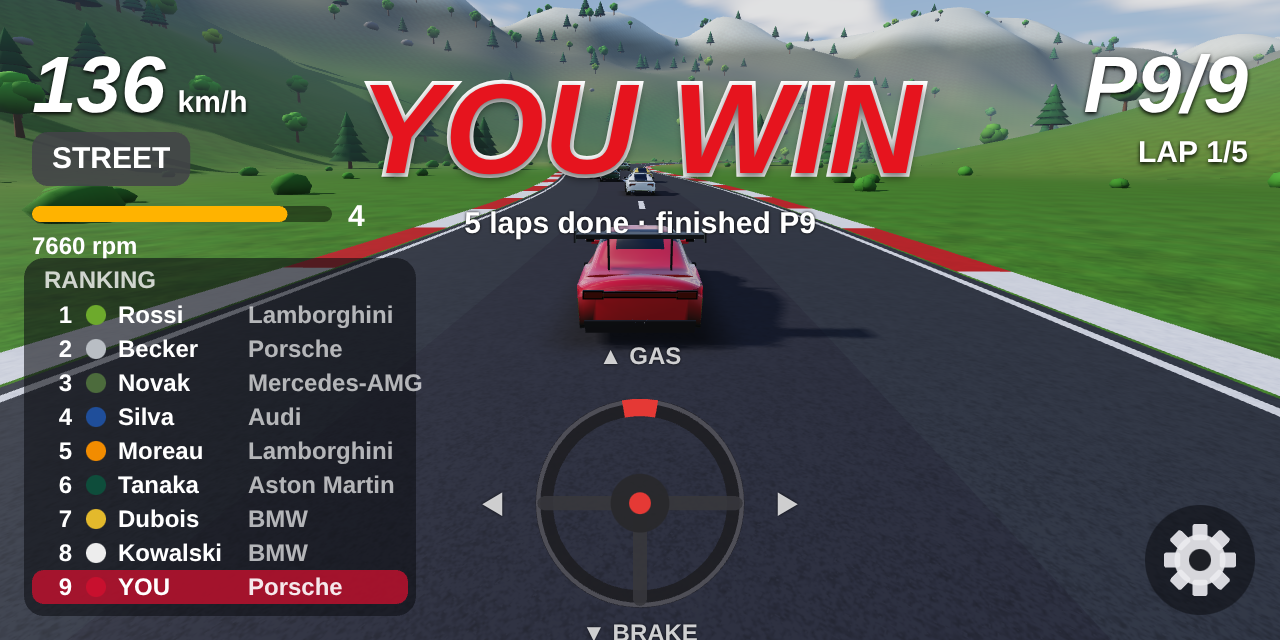
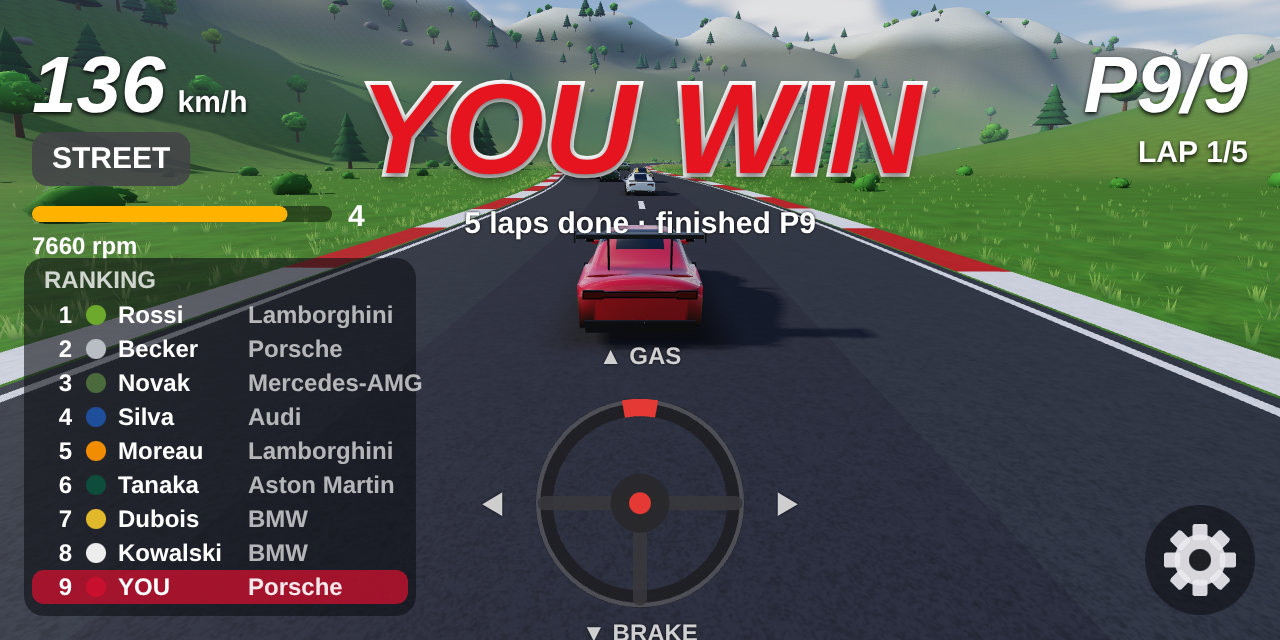
Grass tufts on the verges and leaves on the trees and bushes
About 30,000 tufts of grass blades along the track, densest by the curbs,
and leaf cards over the broadleaf crowns and bushes, in a double-sided
foliage material. Back faces keep their upward normals so both sides light
alike; foliage is left out of the shadow maps.

Claude-Session: https://claude.ai/code/session_01PALYvBmcq9tb4KfgW5X3kT

diff --git a/app/src/main/java/com/titovpower/racegame/SceneMeshes.kt b/app/src/main/java/com/titovpower/racegame/SceneMeshes.kt
@@ -1,6 +1,7 @@
 package com.titovpower.racegame
 
 import kotlin.math.PI
+import kotlin.math.abs
 import kotlin.math.cos
 import kotlin.math.sin
 import kotlin.random.Random
@@ -181,6 +182,99 @@ object SceneMeshes {
             Rgb.hex(0xECEFF1),
         )
         b.gloss = 0f
+        return b.toArray()
+    }
+
+    private val BLADE_BASE = Rgb.hex(0x44752C)
+    private val BLADE_TIP = Rgb.hex(0x8DB04A)
+    private val BLADE_DRY = Rgb.hex(0xB5AE62)
+
+    /**
+     * Grass tufts on the verges along the track (densest next to the curbs) and leaves on the
+     * broadleaf trees and bushes: thin double-sided cards. Normals point up or out of the crown,
+     * so they light like the ground and the foliage they sit on.
+     */
+    fun foliage(world: World): FloatArray {
+        val b = MeshBuilder(1 shl 22)
+        val track = world.track
+        val rnd = Random(11)
+        val minOffset = track.halfWidth + track.curbWidth + 0.4f
+        repeat(30000) {
+            val i = rnd.nextInt(track.samples)
+            val t = track.tangent(i)
+            // Biased towards the track: most tufts within ~15 m of the curb.
+            val off = minOffset + 40f * rnd.nextFloat().let { it * it * it }
+            val side = if (rnd.nextBoolean()) 1f else -1f
+            val along = rnd.nextFloat()
+            val j = (i + 1) % track.samples
+            val cx = track.xs[i] + (track.xs[j] - track.xs[i]) * along + t.z * off * side
+            val cz = track.zs[i] + (track.zs[j] - track.zs[i]) * along - t.x * off * side
+            val y = world.heightAt(cx, cz, off) - 0.02f
+            val h = 0.16f + rnd.nextFloat() * 0.26f
+            val dry = clamp(Noise.value(cx * 0.012f, cz * 0.012f) - 0.5f, 0f, 1f) * 1.4f
+            val tip = BLADE_TIP.mix(BLADE_DRY, dry).scale(0.85f + rnd.nextFloat() * 0.3f)
+            val base = BLADE_BASE.scale(0.8f + rnd.nextFloat() * 0.3f)
+            val up = V3(0f, 1f, 0f)
+            val blades = 4 + rnd.nextInt(3)
+            for (k in 0 until blades) {
+                val a = rnd.nextFloat() * 6.283f
+                val lean = 0.15f + rnd.nextFloat() * 0.35f
+                val dx = cos(a)
+                val dz = sin(a)
+                val px = cx + dx * 0.04f
+                val pz = cz + dz * 0.04f
+                val w = 0.022f + rnd.nextFloat() * 0.015f
+                // A blade: a thin triangle from a dark root to a bright tip, leaning outwards.
+                val b0 = V3(px - dz * w, y, pz + dx * w)
+                val b1 = V3(px + dz * w, y, pz - dx * w)
+                val tp = V3(px + dx * h * lean, y + h, pz + dz * h * lean)
+                b.vertex(b0, up, base); b.vertex(b1, up, base); b.vertex(tp, up, tip)
+            }
+        }
+        // Leaves: small pointed cards scattered over the broadleaf crowns and bushes.
+        fun leaves(center: V3, rx: Float, ry: Float, rz: Float, count: Int, size: Float, color: Rgb, seed: Int) {
+            val r = Random(seed)
+            repeat(count) {
+                // A random direction, favoring the upper half (the underside is in shade anyway).
+                val u = r.nextFloat() * 2f - 1f
+                val phi = r.nextFloat() * 6.283f
+                val sy = maxOf(u, -0.4f)
+                val ring = kotlin.math.sqrt(1f - sy * sy)
+                val n = V3(ring * cos(phi), sy, ring * sin(phi))
+                val p = V3(center.x + n.x * rx * 1.04f, center.y + n.y * ry * 1.04f, center.z + n.z * rz * 1.04f)
+                // Two in-plane axes, twisted randomly, tilted out of the crown surface.
+                val t0 = (if (abs(n.y) < 0.9f) V3(0f, 1f, 0f) else V3(1f, 0f, 0f)).cross(n).normalized()
+                val t1 = n.cross(t0)
+                val tw = r.nextFloat() * 6.283f
+                val ax = (t0 * cos(tw) + t1 * sin(tw) + n * 0.5f).normalized() * size
+                val ay = (t1 * cos(tw) - t0 * sin(tw)).normalized() * (size * 0.5f)
+                val c = color.scale(0.75f + r.nextFloat() * 0.5f)
+                val tipC = p + ax
+                val back = p - ax * 0.6f
+                // One triangle per leaf: from a broad base to the tip.
+                b.vertex(back + ay, n, c); b.vertex(back - ay, n, c); b.vertex(tipC, n, c)
+            }
+        }
+        for (tr in world.trees) {
+            if (tr.pine) continue
+            val s = tr.scale
+            val rot = (tr.x * 13.1f + tr.z * 7.7f) % 6.28f
+            val tint = 0.85f + Noise.value(tr.x * 0.3f, tr.z * 0.3f) * 0.3f
+            val autumn = Noise.value(tr.x * 0.05f, tr.z * 0.05f)
+            val leaf = LEAF.mix(LEAF_AUTUMN, clamp(autumn - 0.55f, 0f, 1f) * 2f).scale(tint * 1.08f)
+            val cy = tr.y + 4.4f * s
+            val seed = (tr.x * 3 + tr.z).toInt()
+            leaves(V3(tr.x, cy, tr.z), 2.3f * s, 1.9f * s, 2.3f * s, 70, 0.32f * s, leaf, seed)
+            for (k in 0 until 3) {
+                val a = rot + k * 2.1f
+                leaves(V3(tr.x + cos(a) * 1.4f * s, cy + (0.5f + 0.4f * (k % 2)) * s, tr.z + sin(a) * 1.4f * s), 1.45f * s, 1.25f * s, 1.45f * s, 30, 0.28f * s, leaf, seed + k * 7)
+            }
+            leaves(V3(tr.x, cy + 1.6f * s, tr.z), 1.5f * s, 1.2f * s, 1.5f * s, 30, 0.28f * s, leaf.scale(1.1f), seed + 3)
+        }
+        for (bush in world.bushes) {
+            val tint = 0.85f + Noise.value(bush.x * 0.4f, bush.z * 0.4f) * 0.3f
+            leaves(V3(bush.x, bush.size * 0.45f, bush.z), bush.size * 1.1f, bush.size * 0.8f, bush.size, 26, 0.16f + bush.size * 0.06f, BUSH.scale(tint * 1.1f), (bush.x * 7 + bush.z).toInt())
+        }
         return b.toArray()
     }
 

diff --git a/app/src/main/java/com/titovpower/racegame/Glb.kt b/app/src/main/java/com/titovpower/racegame/Glb.kt
@@ -18,6 +18,8 @@ enum class Surfacing {
     ASPHALT,
     /** Lamps: emissive, switched on at runtime (brake lights). */
     LAMP,
+    /** Grass blades and leaves: thin cards seen from both sides. */
+    FOLIAGE,
 }
 
 /** A named mesh part: [MeshBuilder] vertex data plus how to shade it. */
@@ -68,6 +70,7 @@ object Glb {
                 Surfacing.GRASS -> pbr(key, 0f, 0.95f, texture(kind))
                 Surfacing.ASPHALT -> pbr(key, 0f, 0.82f, texture(kind))
                 Surfacing.LAMP -> pbr(key, 0f, 0.25f, emissive = true)
+                Surfacing.FOLIAGE -> pbr(key, 0f, 0.75f, doubleSided = true)
                 Surfacing.AUTO -> when {
                     gloss >= 0.99f -> pbr(key, 0f, 0.04f) // glass and lenses
                     gloss >= 0.85f -> pbr(key, 1f, 0.18f) // chrome and polished metal
@@ -192,13 +195,14 @@ object Glb {
         return if (gx * nx + gy * ny + gz * nz >= 0f) CCW else CW
     }
 
-    private fun pbr(name: String, metallic: Float, roughness: Float, texture: Int = -1, clearcoat: Boolean = false, emissive: Boolean = false): String {
+    private fun pbr(name: String, metallic: Float, roughness: Float, texture: Int = -1, clearcoat: Boolean = false, emissive: Boolean = false, doubleSided: Boolean = false): String {
         val tex = if (texture >= 0) ""","baseColorTexture":{"index":$texture}""" else ""
         val ext = ArrayList<String>()
         if (clearcoat) ext.add(""""KHR_materials_clearcoat":{"clearcoatFactor":1.0,"clearcoatRoughnessFactor":0.06}""")
         val extJson = if (ext.isEmpty()) "" else ""","extensions":{${ext.joinToString(",")}}"""
         val emissiveJson = if (emissive) ""","emissiveFactor":[0,0,0]""" else ""
-        return """{"name":"$name","pbrMetallicRoughness":{"baseColorFactor":[1,1,1,1],"metallicFactor":$metallic,"roughnessFactor":$roughness$tex}$emissiveJson$extJson}"""
+        val sides = if (doubleSided) ""","doubleSided":true""" else ""
+        return """{"name":"$name","pbrMetallicRoughness":{"baseColorFactor":[1,1,1,1],"metallicFactor":$metallic,"roughnessFactor":$roughness$tex}$emissiveJson$extJson$sides}"""
     }
 
     private fun toLinear(c: Float) = clamp(c, 0f, 1f).toDouble().pow(2.2).toFloat()

diff --git a/tools/preview/index.html b/tools/preview/index.html
@@ -173,7 +173,7 @@ async function main() {
     gl.bindFramebuffer(gl.FRAMEBUFFER, shadowFbo[k]); gl.clear(gl.DEPTH_BUFFER_BIT);
     gl.uniformMatrix4fv(u(shadowProgram, 'uLightVP'), false, k ? frame.lightVP1 : frame.lightVP0);
     for (const it of (k ? items.slice(0, 1) : items)) for (const p of it.m.prims) {
-      if (p.material.blend) continue;
+      if (p.material.blend || p.material.name === "FOLIAGE") continue;
       gl.uniformMatrix4fv(u(shadowProgram, 'uModel'), false, mul(it.matrix, p.matrix));
       gl.bindVertexArray(p.vao); gl.drawElements(gl.TRIANGLES, p.count, gl.UNSIGNED_INT, 0);
     }

diff --git a/app/src/main/java/com/titovpower/racegame/GlRenderer.kt b/app/src/main/java/com/titovpower/racegame/GlRenderer.kt
@@ -435,7 +435,8 @@ private class GlModel(private val model: GltfModel, bitmaps: List<Bitmap?>) {
 
     fun drawDepth(modelLoc: Int, matrix: FloatArray) {
         for (p in prims) {
-            if (p.material.blend) continue
+            // Grass blades and leaf cards are too small to matter in the shadow maps; the crowns cast the tree shadows.
+            if (p.material.blend || p.material.name == "FOLIAGE") continue
             Matrix.multiplyMM(world, 0, matrix, 0, p.matrix, 0)
             GLES30.glUniformMatrix4fv(modelLoc, 1, false, world, 0)
             GLES30.glBindVertexArray(p.vao)

diff --git a/app/src/main/java/com/titovpower/racegame/GlShaders.kt b/app/src/main/java/com/titovpower/racegame/GlShaders.kt
@@ -166,7 +166,9 @@ void main() {
     float dist = length(toCam);
     vec3 v = toCam / dist;
     vec3 n = normalize(vNormal);
-    if (!gl_FrontFacing) n = -n;
+    // Back faces of double-sided surfaces: turn the normal to the viewer, unless it already faces
+    // them (grass and leaf cards carry upward/outward normals so both sides light alike).
+    if (!gl_FrontFacing && dot(n, v) < 0.0) n = -n;
     float NoV = max(dot(n, v), 1e-3);
 
     float rough = clamp(uRoughness, 0.045, 1.0);

diff --git a/app/src/main/java/com/titovpower/racegame/Scene.kt b/app/src/main/java/com/titovpower/racegame/Scene.kt
@@ -30,6 +30,7 @@ class Scene(private val game: GameState) {
                     GlbPart("road", SceneMeshes.road(w.track), Surfacing.ASPHALT),
                     GlbPart("props", SceneMeshes.props(w)),
                     GlbPart("vegetation", SceneMeshes.vegetation(w)),
+                    GlbPart("foliage", SceneMeshes.foliage(w), Surfacing.FOLIAGE),
                 ),
             ),
             WHEEL to Glb.write(listOf(GlbPart("wheel", CarModel.wheel()))),

diff --git a/README.md b/README.md
@@ -108,7 +108,8 @@ roughness maps are ignored.
 ## Tech
 
 Plain Kotlin and OpenGL ES 3.0, no game engine or rendering library. All geometry (terrain, track, trees,
-grandstand, cars) is generated in code.
+grandstand, cars) is generated in code, including ~30,000 grass tufts along the verges and
+individual leaves on the broadleaf trees and bushes (`SceneMeshes.foliage`).
 
 | File | What it does |
 |---|---|
